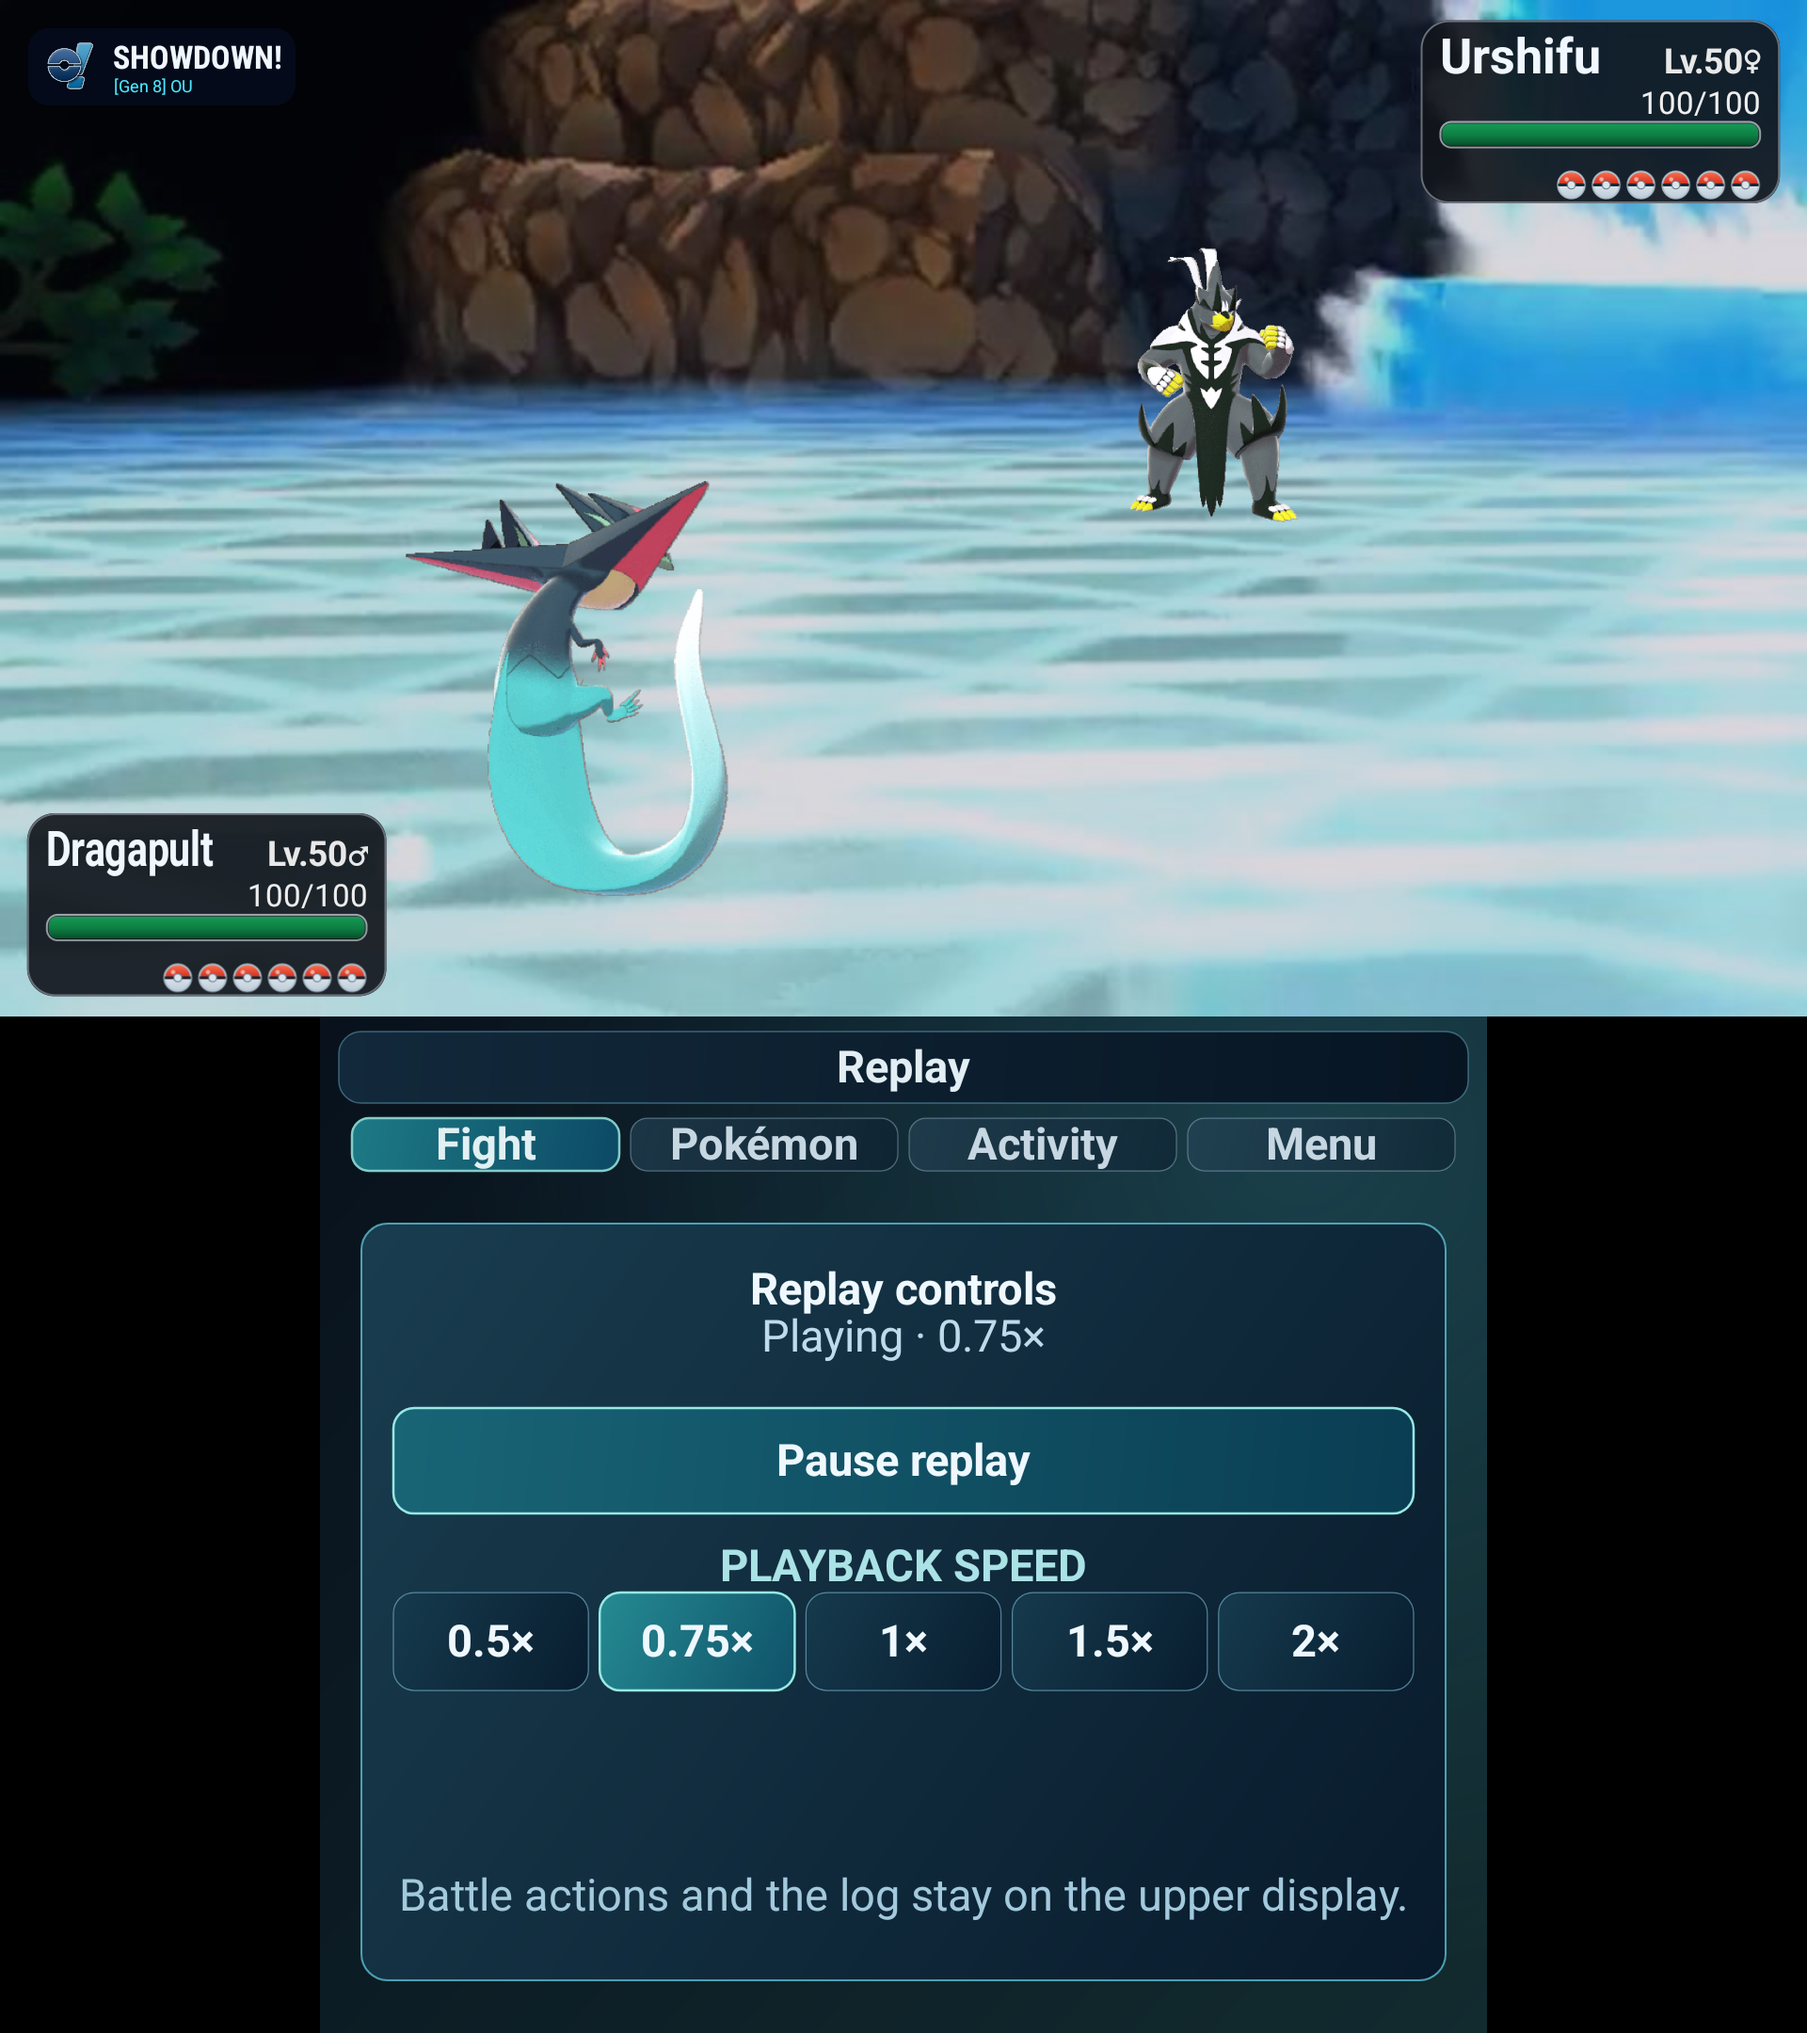
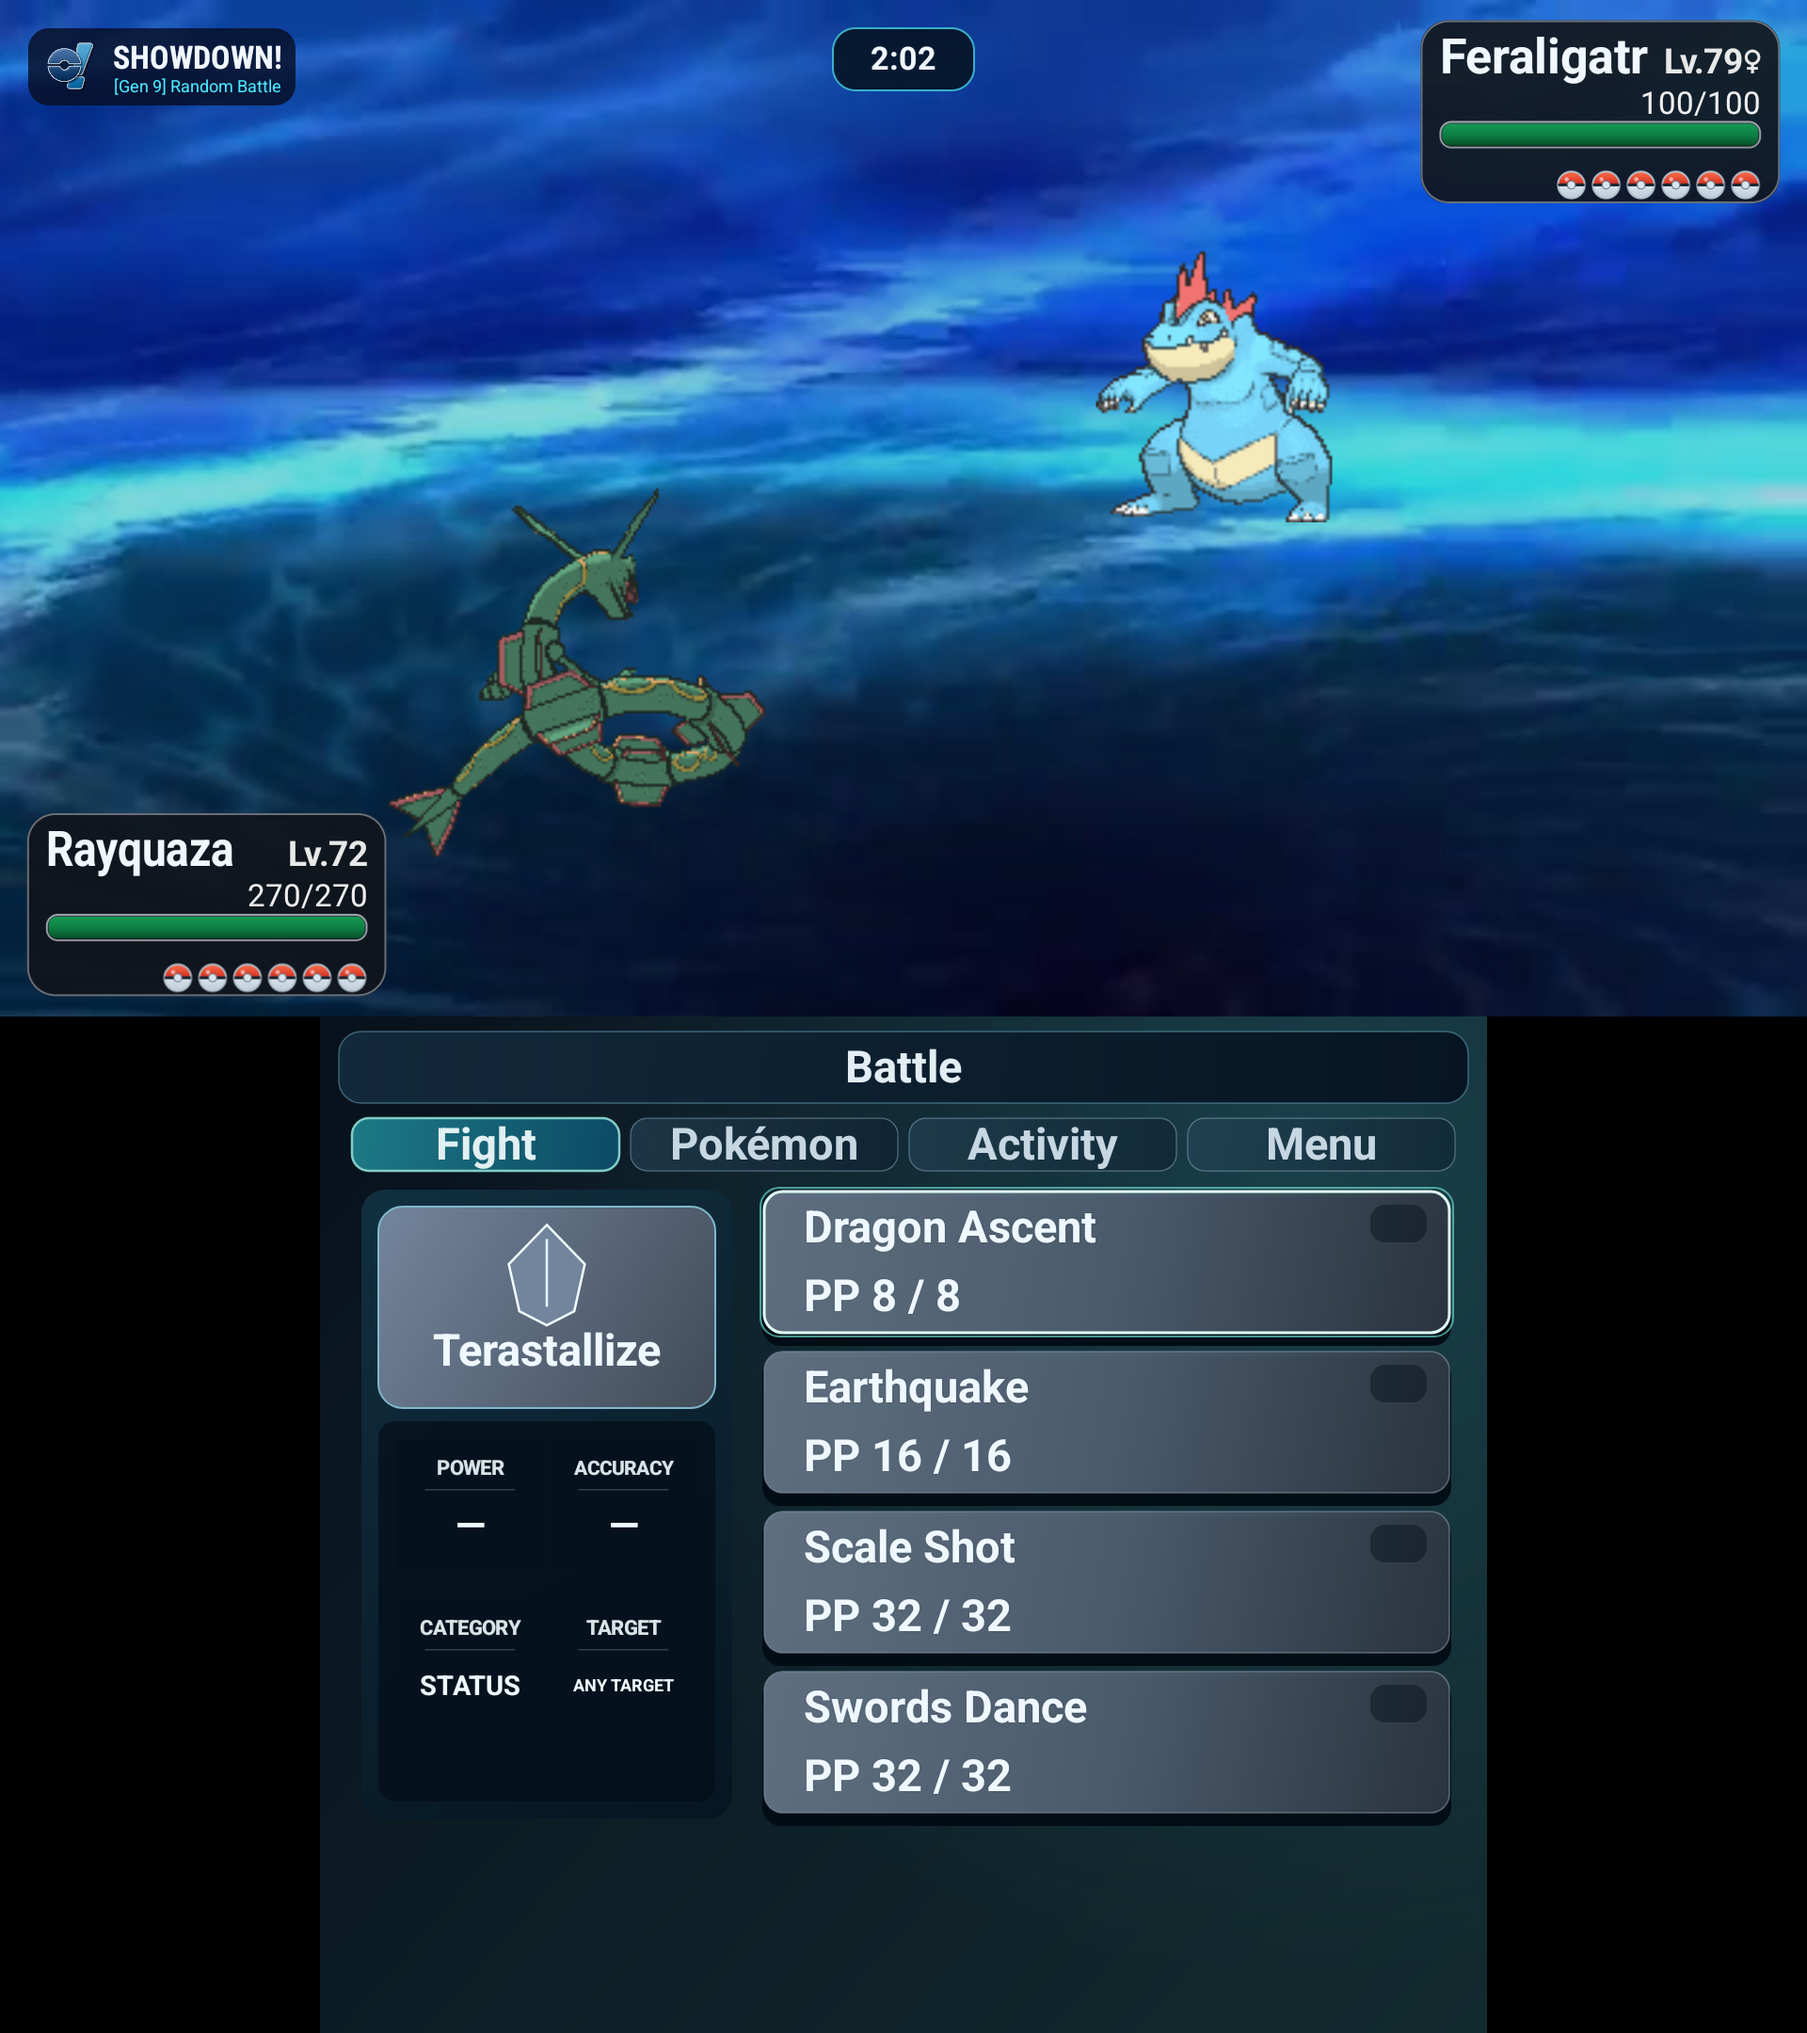
fix(ui): preload battle move metadata and refresh README

diff --git a/app/src/main/kotlin/dev/adrian/showdown/ShowdownSpriteCache.kt b/app/src/main/kotlin/dev/adrian/showdown/ShowdownSpriteCache.kt
@@ -419,6 +419,7 @@ class ShowdownSpriteCache(context: Context) : AutoCloseable {
     private val mainHandler = Handler(Looper.getMainLooper())
     private val appContext = context.applicationContext
     private val downloadExecutor = Executors.newFixedThreadPool(2)
+    private val moveDataExecutor = Executors.newSingleThreadExecutor()
     private val fallbackSpriteExecutor = ThreadPoolExecutor(0, 1, 10L, TimeUnit.SECONDS, LinkedBlockingQueue())
     private val decodeExecutor = Executors.newSingleThreadExecutor()
     private val memoryConstrained = (context.getSystemService(Context.ACTIVITY_SERVICE) as? ActivityManager)
@@ -574,7 +575,7 @@ class ShowdownSpriteCache(context: Context) : AutoCloseable {
     }
 
     fun requestMoveDex(receiver: (File?) -> Unit) {
-        requestBytes("data/moves.json", receiver)
+        requestBytes("data/moves.json", moveDataExecutor, receiver)
     }
 
     fun requestPokedex(receiver: (File?) -> Unit) {
@@ -623,6 +624,7 @@ class ShowdownSpriteCache(context: Context) : AutoCloseable {
     override fun close() {
         if (!closed.compareAndSet(false, true)) return
         downloadExecutor.shutdownNow()
+        moveDataExecutor.shutdownNow()
         fallbackSpriteExecutor.shutdownNow()
         decodeExecutor.shutdownNow()
         memoryCache.evictAll()
@@ -1354,6 +1356,14 @@ class ShowdownSpriteCache(context: Context) : AutoCloseable {
     }
 
     private fun requestBytes(path: String, receiver: (File?) -> Unit) {
+        requestBytesWithExecutor(path, downloadExecutor, receiver)
+    }
+
+    private fun requestBytes(path: String, executor: Executor, receiver: (File?) -> Unit) {
+        requestBytesWithExecutor(path, executor, receiver)
+    }
+
+    private fun requestBytesWithExecutor(path: String, executor: Executor, receiver: (File?) -> Unit) {
         if (closed.get()) {
             mainHandler.post { receiver(null) }
             return
@@ -1369,7 +1379,7 @@ class ShowdownSpriteCache(context: Context) : AutoCloseable {
         } ?: return
         if (!shouldStart) return
         runCatching {
-            downloadExecutor.execute {
+            executor.execute {
                 val file = loadBytes(path)
                 val receivers = pendingFileReceivers.remove(path).orEmpty()
                 mainHandler.post {

diff --git a/app/src/test/kotlin/dev/adrian/showdown/MainActivityLifecycleContractTest.kt b/app/src/test/kotlin/dev/adrian/showdown/MainActivityLifecycleContractTest.kt
@@ -73,6 +73,17 @@ class MainActivityLifecycleContractTest {
     }
 
     @Test
+    fun loadsBattleMoveDetailsOnBattleRequestsAsWellAsBattleInitialization() {
+        val source = File("src/main/kotlin/dev/adrian/showdown/MainActivity.kt").readText()
+        val listener = source.substringAfter("private val protocolListener =").substringBefore("private val decisionListener")
+        val onCreate = source.substringAfter("override fun onCreate(savedInstanceState: Bundle?) {").substringBefore("override fun onNewIntent")
+
+        assertTrue(onCreate.contains("moveDex.loadMoveInfo(::bindMoveDexResolvers)"))
+        assertTrue(listener.contains("it.startsWith(\"|init|battle\") || it.startsWith(\"|request|\")"))
+        assertTrue(listener.contains("ensureBattleMoveInfoLoaded()"))
+    }
+
+    @Test
     fun replaySpeedIsPropagatedToBattleAudio() {
         val source = File("src/main/kotlin/dev/adrian/showdown/MainActivity.kt").readText()
 
@@ -376,7 +387,8 @@ class MainActivityLifecycleContractTest {
         val battleLoader = source.substringAfter("private fun ensureBattleMoveInfoLoaded()").substringBefore("private fun applyBattleProtocolToEffects")
         val teamEditor = source.substringAfter("private fun showTeamEditor").substringBefore("private fun showTeamFormatPicker")
 
-        assertFalse(onCreate.contains("moveDex.load"))
+        assertTrue(onCreate.contains("moveDex.loadMoveInfo(::bindMoveDexResolvers)"))
+        assertFalse(onCreate.contains("moveDex.load("))
         assertTrue(source.contains("private fun bindMoveDexResolvers()"))
         assertTrue(source.contains("private fun ensureMoveDexLoaded()"))
         assertTrue(source.contains("private fun ensureBattleMoveInfoLoaded()"))

diff --git a/app/src/main/kotlin/dev/adrian/showdown/MainActivity.kt b/app/src/main/kotlin/dev/adrian/showdown/MainActivity.kt
@@ -278,7 +278,9 @@ class MainActivity : Activity() {
     private val sessionListener = BattleSession.Listener { refreshDisplays() }
     private val protocolListener = BattleSession.ProtocolListener { lines ->
         runOnUiThread {
-            if (lines.any { it.startsWith("|init|battle") }) ensureBattleMoveInfoLoaded()
+            if (lines.any { it.startsWith("|init|battle") || it.startsWith("|request|") }) {
+                ensureBattleMoveInfoLoaded()
+            }
             if (lightweightBattlePlayback) {
                 applyLightweightBattleProtocol(lines)
             } else {
@@ -412,6 +414,7 @@ class MainActivity : Activity() {
         spriteCache = ShowdownSpriteCache(this)
         moveDex = ShowdownMoveDex(spriteCache)
         bindMoveDexResolvers()
+        moveDex.loadMoveInfo(::bindMoveDexResolvers)
         battleAudio = BattleAudio(this, spriteCache, session, lightweightBattlePlayback)
         battleAudio.setPlaybackSpeed(replaySpeed)
         battleAudio.updateOptions(session)

diff --git a/tools/compose-thor-screenshot/main.go b/tools/compose-thor-screenshot/main.go
@@ -1,0 +1,86 @@
+package main
+
+import (
+	"fmt"
+	"image"
+	"image/color"
+	"image/draw"
+	"image/png"
+	"os"
+)
+
+const (
+	upperWidth  = 1920
+	upperHeight = 1080
+	lowerWidth  = 1240
+	lowerHeight = 1080
+)
+
+func main() {
+	if len(os.Args) != 4 {
+		fmt.Fprintln(os.Stderr, "usage: compose-thor-screenshot <upper.png> <lower.png> <output.png>")
+		os.Exit(2)
+	}
+
+	upper, err := readPNG(os.Args[1])
+	if err != nil {
+		fail(err)
+	}
+	lower, err := readPNG(os.Args[2])
+	if err != nil {
+		fail(err)
+	}
+	composite, err := composeThorScreenshot(upper, lower)
+	if err != nil {
+		fail(err)
+	}
+	output, err := os.Create(os.Args[3])
+	if err != nil {
+		fail(fmt.Errorf("create output image: %w", err))
+	}
+	if err := png.Encode(output, composite); err != nil {
+		output.Close()
+		fail(fmt.Errorf("encode output image: %w", err))
+	}
+	if err := output.Close(); err != nil {
+		fail(fmt.Errorf("close output image: %w", err))
+	}
+}
+
+func fail(err error) {
+	fmt.Fprintln(os.Stderr, err)
+	os.Exit(1)
+}
+
+func composeThorScreenshot(upper, lower image.Image) (*image.RGBA, error) {
+	if upper.Bounds().Dx() != upperWidth || upper.Bounds().Dy() != upperHeight {
+		return nil, fmt.Errorf("upper screenshot must be %dx%d, got %dx%d", upperWidth, upperHeight, upper.Bounds().Dx(), upper.Bounds().Dy())
+	}
+	if lower.Bounds().Dx() != lowerWidth || lower.Bounds().Dy() != lowerHeight {
+		return nil, fmt.Errorf("lower screenshot must be %dx%d, got %dx%d", lowerWidth, lowerHeight, lower.Bounds().Dx(), lower.Bounds().Dy())
+	}
+
+	canvas := image.NewRGBA(image.Rect(0, 0, upperWidth, upperHeight+lowerHeight))
+	draw.Draw(canvas, canvas.Bounds(), image.NewUniform(color.RGBA{A: 255}), image.Point{}, draw.Src)
+	draw.Draw(canvas, image.Rect(0, 0, upperWidth, upperHeight), upper, upper.Bounds().Min, draw.Src)
+	lowerLeft := (upperWidth - lowerWidth) / 2
+	draw.Draw(canvas, image.Rect(lowerLeft, upperHeight, lowerLeft+lowerWidth, upperHeight+lowerHeight), lower, lower.Bounds().Min, draw.Src)
+	return canvas, nil
+}
+
+func readPNG(path string) (image.Image, error) {
+	file, err := os.Open(path)
+	if err != nil {
+		return nil, fmt.Errorf("open %s: %w", path, err)
+	}
+	defer file.Close()
+
+	decoded, format, err := image.Decode(file)
+	if err != nil {
+		return nil, fmt.Errorf("decode %s: %w", path, err)
+	}
+	if format != "png" {
+		return nil, fmt.Errorf("%s must be PNG, got %s", path, format)
+	}
+	return decoded, nil
+}

diff --git a/tools/compose-thor-screenshot/main_test.go b/tools/compose-thor-screenshot/main_test.go
@@ -1,0 +1,55 @@
+package main
+
+import (
+	"image"
+	"image/color"
+	"image/draw"
+	"testing"
+)
+
+func TestComposeThorScreenshotCentersNativeLowerDisplay(t *testing.T) {
+	upperColor := color.RGBA{R: 20, G: 40, B: 60, A: 255}
+	lowerColor := color.RGBA{R: 90, G: 110, B: 130, A: 255}
+	upper := image.NewRGBA(image.Rect(0, 0, upperWidth, upperHeight))
+	lower := image.NewRGBA(image.Rect(0, 0, lowerWidth, lowerHeight))
+	draw.Draw(upper, upper.Bounds(), image.NewUniform(upperColor), image.Point{}, draw.Src)
+	draw.Draw(lower, lower.Bounds(), image.NewUniform(lowerColor), image.Point{}, draw.Src)
+
+	composite, err := composeThorScreenshot(upper, lower)
+	if err != nil {
+		t.Fatal(err)
+	}
+	if composite.Bounds() != image.Rect(0, 0, upperWidth, upperHeight+lowerHeight) {
+		t.Fatalf("unexpected bounds: %v", composite.Bounds())
+	}
+	if got := composite.RGBAAt(0, 0); got != upperColor {
+		t.Fatalf("upper display pixel = %v, want %v", got, upperColor)
+	}
+	lowerLeft := (upperWidth - lowerWidth) / 2
+	if got := composite.RGBAAt(lowerLeft, upperHeight); got != lowerColor {
+		t.Fatalf("lower display pixel = %v, want %v", got, lowerColor)
+	}
+	if got := composite.RGBAAt(lowerLeft-1, upperHeight); got != (color.RGBA{A: 255}) {
+		t.Fatalf("left margin pixel = %v, want opaque black", got)
+	}
+}
+
+func TestComposeThorScreenshotRejectsIncorrectDisplayDimensions(t *testing.T) {
+	validUpper := image.NewRGBA(image.Rect(0, 0, upperWidth, upperHeight))
+	validLower := image.NewRGBA(image.Rect(0, 0, lowerWidth, lowerHeight))
+
+	for _, test := range []struct {
+		name  string
+		upper image.Image
+		lower image.Image
+	}{
+		{name: "upper", upper: image.NewRGBA(image.Rect(0, 0, upperWidth-1, upperHeight)), lower: validLower},
+		{name: "lower", upper: validUpper, lower: image.NewRGBA(image.Rect(0, 0, lowerWidth, lowerHeight-1))},
+	} {
+		t.Run(test.name, func(t *testing.T) {
+			if _, err := composeThorScreenshot(test.upper, test.lower); err == nil {
+				t.Fatal("composeThorScreenshot accepted an incorrect display size")
+			}
+		})
+	}
+}

diff --git a/scripts/validate-readme-media_test.go b/scripts/validate-readme-media_test.go
@@ -69,7 +69,8 @@ func TestREADMEAssetsRejectMissingBattleSprites(t *testing.T) {
 			draw.Draw(modified, modified.Bounds(), source, source.Bounds().Min, draw.Src)
 			spriteArea := image.Rectangle{Min: test.origin, Max: test.origin.Add(image.Pt(480, 550))}
 			if test.copyBackground {
-				draw.Draw(modified, spriteArea, source, test.backgroundOrigin, draw.Src)
+				backgroundColor := source.At(test.backgroundOrigin.X, test.backgroundOrigin.Y)
+				draw.Draw(modified, spriteArea, image.NewUniform(backgroundColor), image.Point{}, draw.Src)
 			} else {
 				draw.Draw(modified, spriteArea, image.NewUniform(color.NRGBA{R: 4, G: 15, B: 24, A: 255}), image.Point{}, draw.Src)
 			}

diff --git a/README.md b/README.md
@@ -4,7 +4,7 @@ Native Android Pokémon Showdown client for the AYN Thor dual-screen handheld.
 
 <table>
   <tr>
-    <td width="50%"><img src="media/showdown-battle-hd-both-sides.png?v=2f0c483b8de0ca2a" alt="Showdown battle with both Pokémon visible"></td>
+    <td width="50%"><img src="media/showdown-battle-hd-both-sides.png?v=5251c08b586fa832" alt="Live Showdown battle with both Pokémon and move controls visible"></td>
     <td width="50%"><img src="media/showdown-switch-hd-both-sides.png?v=4fae943922afa0d4" alt="Showdown switch screen with both Pokémon visible"></td>
   </tr>
 </table>
